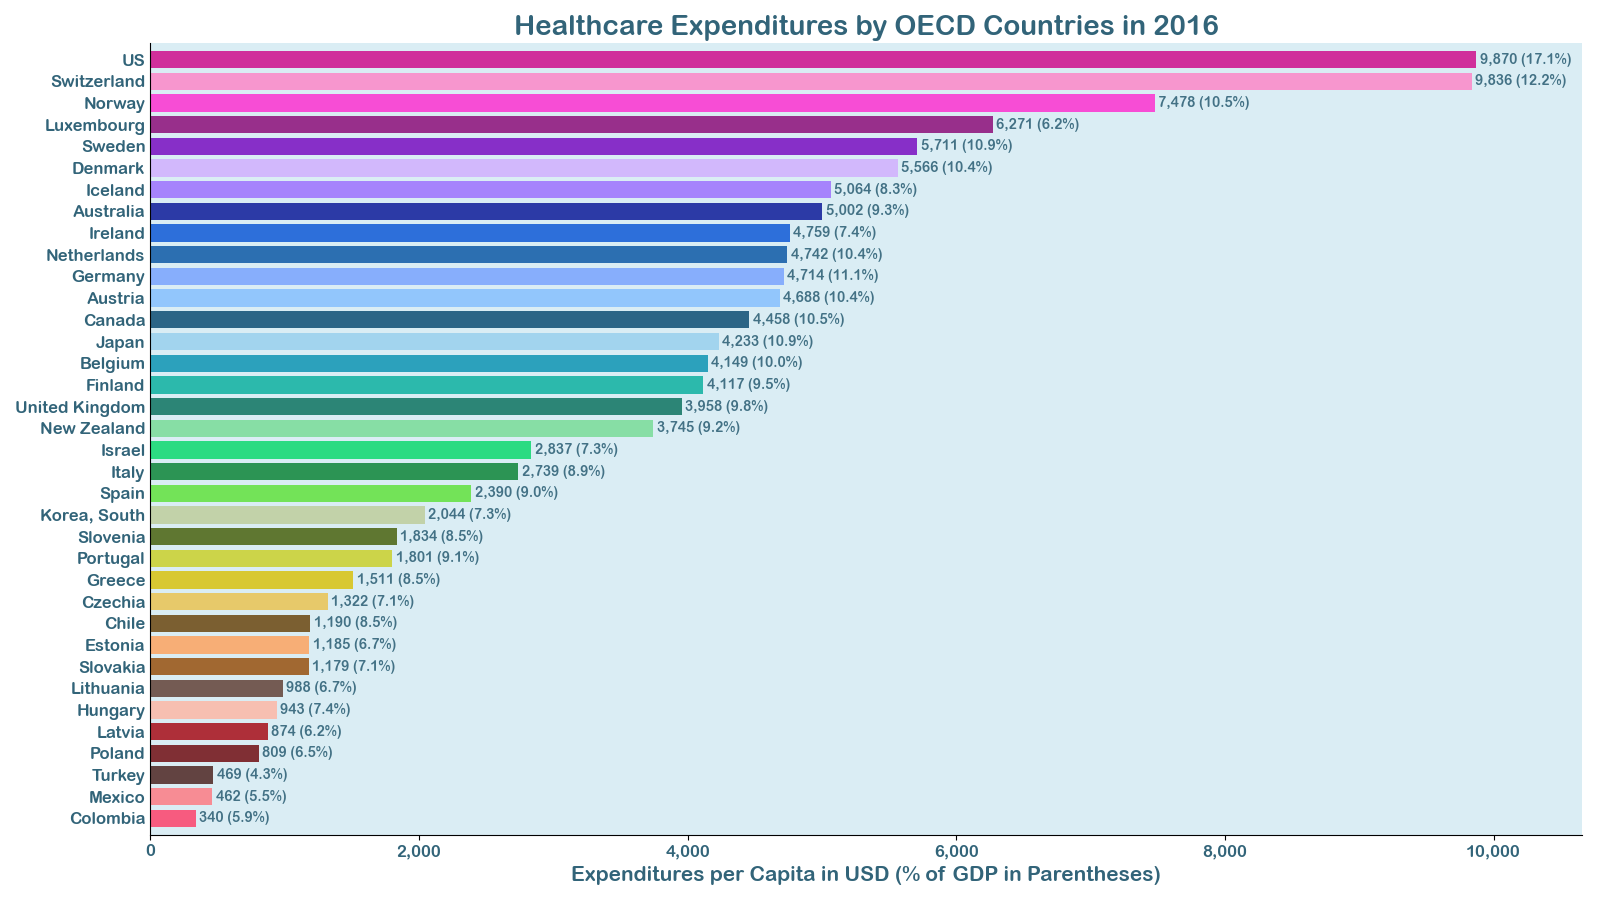
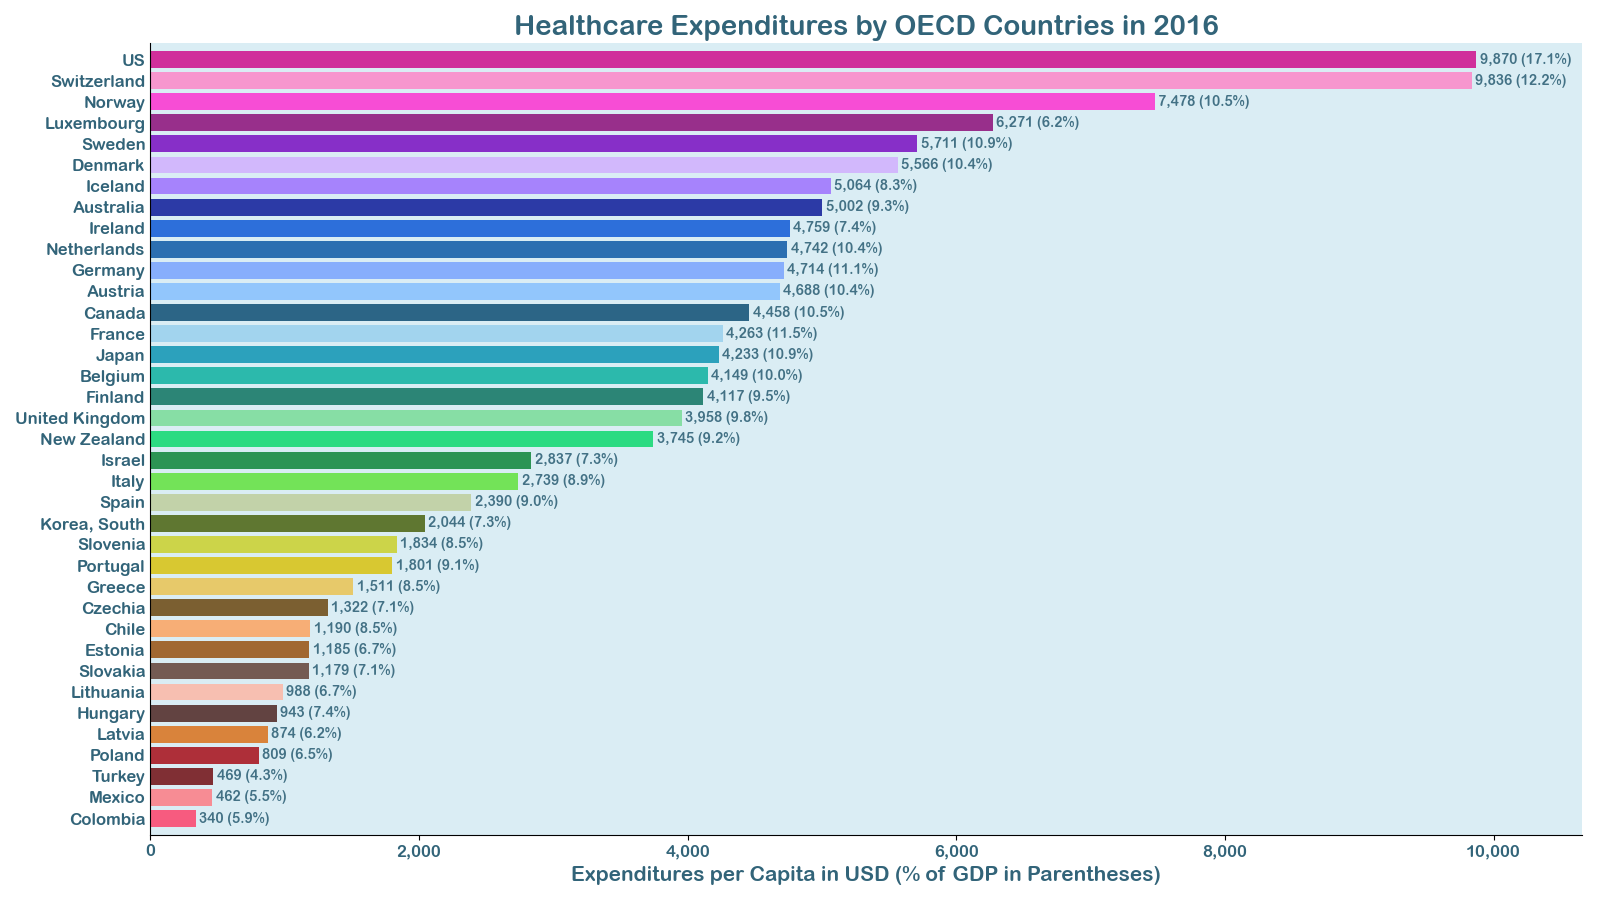
Add files via upload

Changed region(s): [[0.0, 0.0933, 0.7812, 0.9022], [0.0312, 0.9022, 0.0938, 0.9333], [0.125, 0.9022, 0.1562, 0.9333]]

diff --git a/Healthcare_Expenditures/Healthcare_Expenditures_by_OECD_Countries.py b/Healthcare_Expenditures/Healthcare_Expenditures_by_OECD_Countries.py
@@ -9,42 +9,44 @@ x = df['Health_exp_per_capita_USD_2016']
 y = df['Country_Region']
 z = df['Health_exp_pct_GDP_2016']
 font = {'fontname': 'Arial Rounded MT Bold', 'color': '#326479'}
-colors = ["#ff3662",
-          "#ff747c",
-          "#441814",
-          "#6a0004",
-          "#a3000a",
-          "#ffb4a1",
-          "#5b372b",
-          "#934700",
-          "#ff9f57",
-          "#633c00",
-          "#ebc147",
-          "#d8bf00",
-          "#c9ce1e",
-          "#405a00",
-          "#bccc97",
-          "#59e131",
-          "#007e2c",
-          "#01d766",
-          "#72db92",
-          "#006b57",
-          "#00ac9a",
-          "#018eae",
-          "#94ceed",
-          "#00436b",
-          "#80bdff",
-          "#739fff",
-          "#0050a1",
-          "#0250d4",
-          "#000d93",
-          "#9969ff",
-          "#d1abff",
-          "#7300be",
-          "#880071",
-          "#ff25ce",
-          "#ff81c5",
-          "#ce0085"]
+colors = [
+    "#ff3662",
+    "#ff747c",
+    "#6a0004",
+    "#a3000a",
+    "#d9690d",
+    "#441814",
+    "#ffb4a1",
+    "#5b372b",
+    "#934700",
+    "#ff9f57",
+    "#633c00",
+    "#ebc147",
+    "#d8bf00",
+    "#c9ce1e",
+    "#405a00",
+    "#bccc97",
+    "#59e131",
+    "#007e2c",
+    "#01d766",
+    "#72db92",
+    "#006b57",
+    "#00ac9a",
+    "#018eae",
+    "#94ceed",
+    "#00436b",
+    "#80bdff",
+    "#739fff",
+    "#0050a1",
+    "#0250d4",
+    "#000d93",
+    "#9969ff",
+    "#d1abff",
+    "#7300be",
+    "#880071",
+    "#ff25ce",
+    "#ff81c5",
+    "#ce0085"]
 
 fig, ax = plt.subplots(figsize=(16, 9))
 
